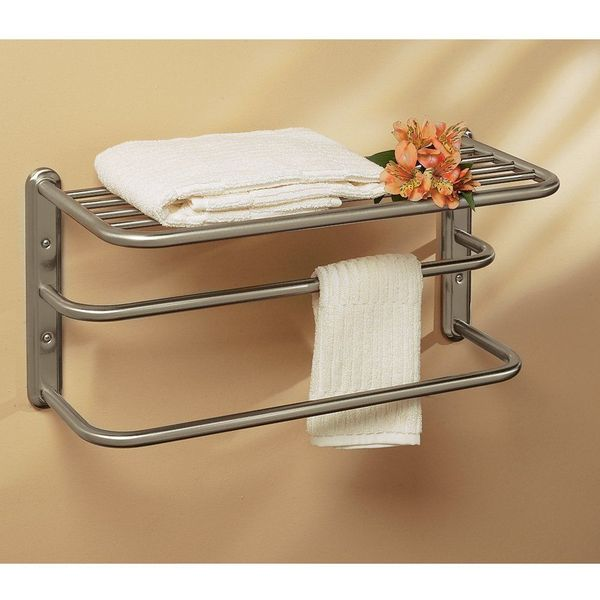
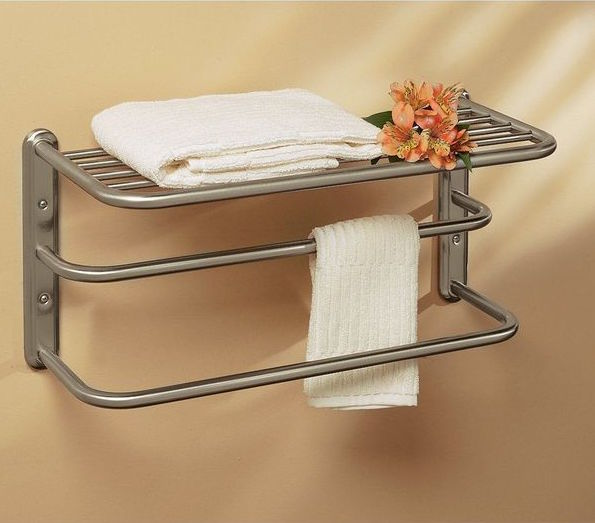
changed files

diff --git a/music.htm b/music.htm
@@ -35,7 +35,7 @@
 
 <div class="container" style="position: relative; left: 0; top: 0;">
 	<div class="row">
-							<img class="image" src="images/towelrack.jpg" style="position: relative; left: 20%; top: 0;">
+							<img class="image" src="images/towelflower.jpg" style="position: relative; left: 20%; top: 0;">
 							<img class="title" src="images/logoblue.png"  style="position: absolute; left:40%;">
 
 	</div>
